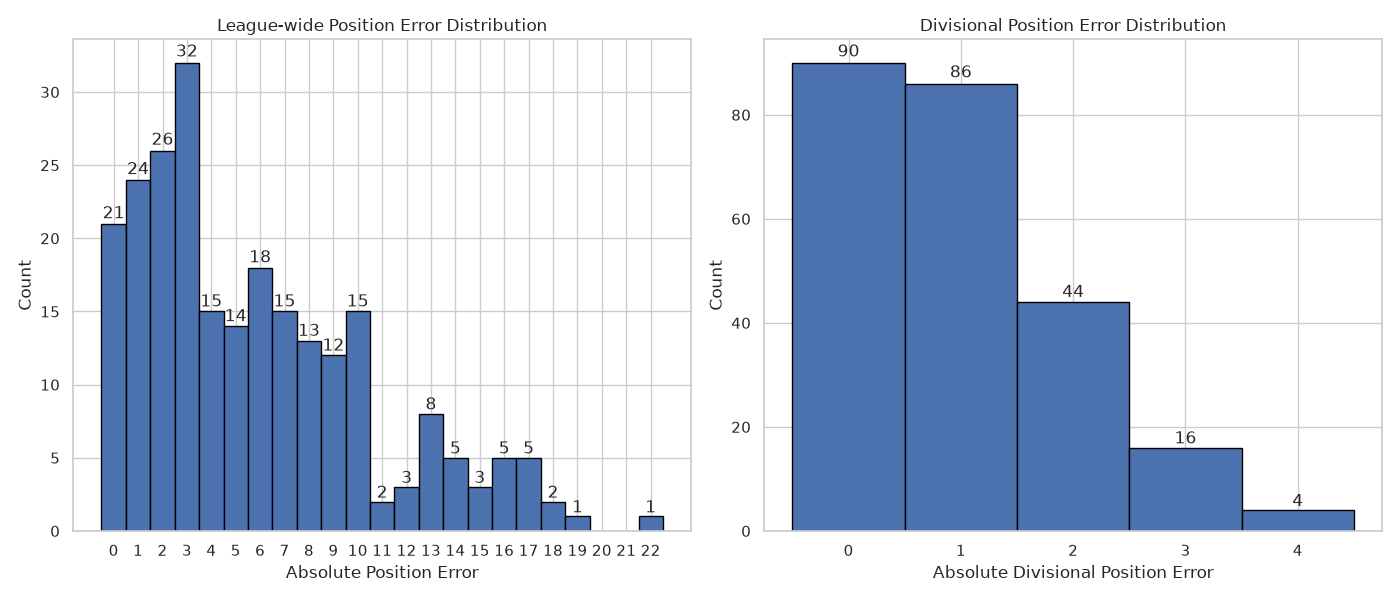
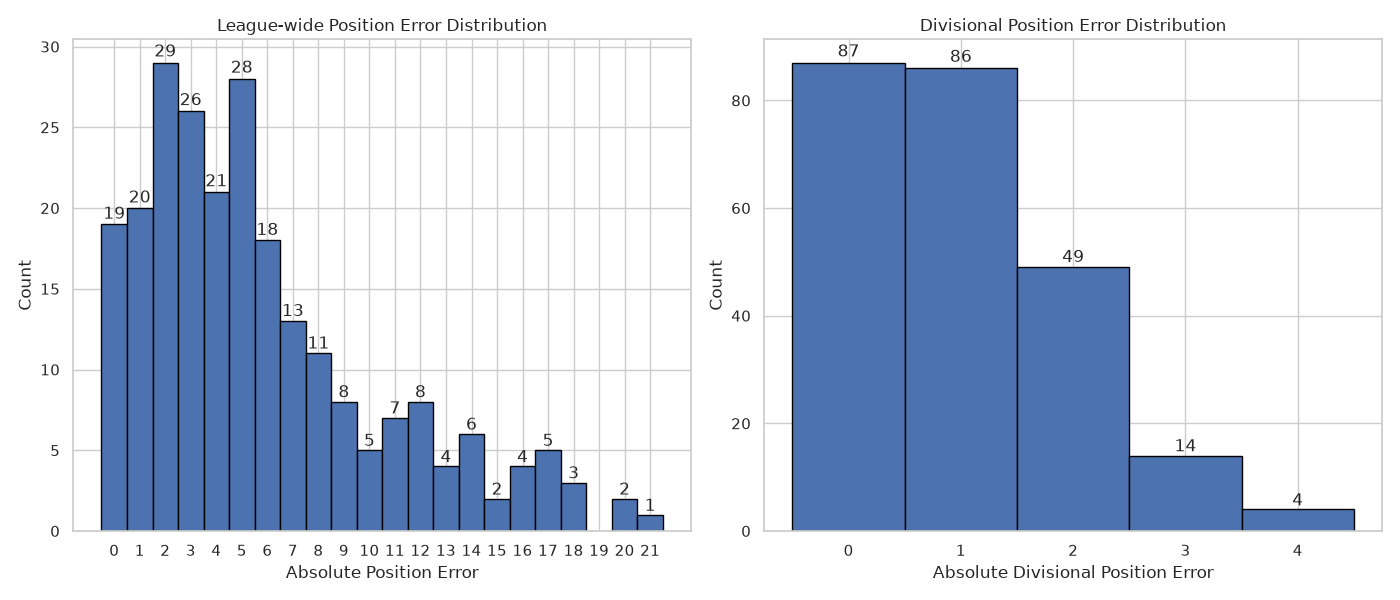
Refactor a_ranking config, logging, and multi-season features

diff --git a/tasks/a_ranking/main.py b/tasks/a_ranking/main.py
@@ -19,7 +19,11 @@ from evaluate import generate_graphs
 OUTPUT_DIR = config.LOG_DIR
 LOG_FILE = OUTPUT_DIR / "output.log"
 TEST_YEARS = config.TEST_YEARS
-TRAIN_WINDOW = config.PREVIOUS_YEARS[-1]
+
+def indent(text, spaces: int) -> str:
+    prefix = " " * spaces
+    return "\n".join(prefix + line for line in str(text).splitlines())
+
 
 def setup_logging() -> logging.Logger:
     OUTPUT_DIR.mkdir(parents=True, exist_ok=True)
@@ -44,12 +48,17 @@ def load_actual_teams(year: int) -> pd.DataFrame:
 
 def log_summary(log, header: str, graph_name: str, results: list) -> None:
     summary = pd.DataFrame(results)
-    log.info(f"\n===== Overall: {header} =====")
-    log.info(f"Mean spearman: {summary['spearman'].mean():.3f} (sd {summary['spearman'].std():.3f})")
-    log.info(f"Mean league position error: {summary['mean_pos_error'].mean():.2f} spots (sd {summary['mean_pos_error'].std():.2f})")
-    log.info(f"Mean divisional position error: {summary['div_mean_pos_error'].mean():.2f} spots (sd {summary['div_mean_pos_error'].std():.2f})")
-    log.info(f"League positions correct: {summary['league_correct'].sum()}/{summary['league_total'].sum()}")
-    log.info(f"Divisional positions correct: {summary['div_correct'].sum()}/{summary['div_total'].sum()}")
+    log.info(f"\n ===== Overall: {header} =====")
+    log.info("  Mean spearman: {:.3f} (sd {:.3f})".format(
+        summary["spearman"].mean(), summary["spearman"].std()))
+    log.info("  Mean league position error: {:.2f} spots (sd {:.2f})".format(
+        summary["mean_pos_error"].mean(), summary["mean_pos_error"].std()))
+    log.info("  Mean divisional position error: {:.2f} spots (sd {:.2f})".format(
+        summary["div_mean_pos_error"].mean(), summary["div_mean_pos_error"].std()))
+    log.info("  League positions correct: {}/{}".format(
+        summary["league_correct"].sum(), summary["league_total"].sum()))
+    log.info("  Divisional positions correct: {}/{}".format(
+        summary["div_correct"].sum(), summary["div_total"].sum()))
 
     comparison = pd.concat([r["comparison"] for r in results], ignore_index=True)
     div = pd.concat([r["div"] for r in results], ignore_index=True)
@@ -60,26 +69,28 @@ def main() -> None:
     results_by_model = {exp["name"]: [] for exp in config.EXPERIMENTS}
 
     for test_year in TEST_YEARS:
-        sampler(train_from=test_year - TRAIN_WINDOW, train_until=test_year - 1, test_year=test_year)
+        sampler(1984, train_until=test_year - 1, test_year=test_year)
         train_data = pd.read_csv(ROOT / "data" / "train" / "Teams.csv")
         test_data = pd.read_csv(ROOT / "data" / "test" / "Teams.csv")
 
         test_year = int(test_data["year"].iloc[0])
         actual_test = load_actual_teams(test_year)
+        log.info(f"\n ===== Year: {test_year} =====")
 
         for exp in config.EXPERIMENTS:
             name = exp["name"]
             train_and_predict = MODELS[exp["model"]]
+            extra = {k: v for k, v in exp.items() if k not in ("name", "model", "alphas")}
             for alpha in exp.get("alphas", [None]):
                 label = f"{name}_alpha_{alpha}" if alpha is not None else name
                 header = f"{name} (alpha={alpha})" if alpha is not None else name
-                log.info(f"\n===== Model: {header} =====")
-                kwargs = {"alpha": alpha} if alpha is not None else {}
+                log.info(f"\n  ===== Model: {header} =====")
+                kwargs = {**extra, **({"alpha": alpha} if alpha is not None else {})}
                 predictions = train_and_predict(train_data, test_data, **kwargs)
-                log.info("Predictions:")
-                log.info(predictions.to_string(index=False))
-                log.info(f"\nTest metrics ({test_year}):")
-                result = evaluate_ranking(predictions, actual_test, name, test_year)
+                log.info("   Predictions:")
+                log.info(indent(predictions.to_string(index=False), 4))
+                log.info("\n   Test metrics:")
+                result = evaluate_ranking(predictions, actual_test, name, test_year, indent="    ")
                 results_by_model[name].append({"model": label, "year": test_year, **result})
 
         print(f"\nlog written to {LOG_FILE}")

diff --git a/tasks/a_ranking/models/roster.py b/tasks/a_ranking/models/roster.py
@@ -146,10 +146,46 @@ def build_rows(teams, roster_scoring, roster_goalies, prior_scoring, prior_goali
         rows.append({"year": year, "franchID": franchID, **feats})
     return pd.DataFrame(rows)
 
+def build_features(teams, roster_scoring, roster_goalies, prior_scoring, prior_goalies_all, target_year, prior_teams, previous_years=1) -> pd.DataFrame:
+    """Build target-year features from the last N available prior seasons.
+
+    Each prior season produces one full feature table via build_rows(); the
+    tables are then averaged per franchise. With previous_years=1 this returns
+    exactly what build_rows() would have returned on its own.
+    """
+    previous_years = int(previous_years)
+    if previous_years < 1:
+        raise ValueError("previous_years must be >= 1")
+
+    seasons = sorted({int(y) for y in prior_scoring["year"] if y < target_year})[-previous_years:]
+    if not seasons:
+        raise ValueError(f"No prior seasons available before {target_year}")
+
+    frames = []
+    for season in seasons:
+        frames.append(build_rows(
+            teams, roster_scoring, roster_goalies,
+            prior_scoring[prior_scoring["year"] <= season],
+            prior_goalies_all[prior_goalies_all["year"] <= season],
+            target_year,
+            prior_teams[prior_teams["year"] <= season],
+        ))
+
+    if len(frames) == 1:
+        return frames[0]
+
+    all_features = pd.concat(frames, ignore_index=True)
+    feature_cols = [c for c in all_features.columns if c not in ("year", "franchID")]
+    averaged = all_features.groupby("franchID")[feature_cols].mean()
+    out = all_features[["year", "franchID"]].drop_duplicates().merge(
+        averaged, left_on="franchID", right_index=True, how="left")
+    out["year"] = target_year
+    return out[["year", "franchID"] + feature_cols].reset_index(drop=True)
+
 def load_players(split: str) -> dict:
     return {t: pd.read_csv(DATA_DIR / split / f"{t}.csv") for t in ("Scoring", "Goalies")}
 
-def train_and_predict(train_data, test_data, train_players=None, test_players=None, alpha=30.0, features=None) -> pd.DataFrame:
+def train_and_predict(train_data, test_data, train_players=None, test_players=None, alpha=30.0, features=None, previous_years=1) -> pd.DataFrame:
     """Trains a ridge model on prior seasons and predicts the test-year rankings."""
     cols = features_for(features) if features is not None else FEATURES
     train_players = train_players or load_players("train")
@@ -160,10 +196,11 @@ def train_and_predict(train_data, test_data, train_players=None, test_players=No
         earlier = train_data[train_data["year"] < year]
         if earlier.empty:
             continue
-        feats = build_rows(
+        feats = build_features(
             train_data, train_players["Scoring"], train_players["Goalies"],
             train_players["Scoring"][train_players["Scoring"]["year"] < year],
-            train_players["Goalies"][train_players["Goalies"]["year"] < year], year, earlier,
+            train_players["Goalies"][train_players["Goalies"]["year"] < year],
+            year, earlier, previous_years,
         )
         target = train_data.loc[train_data["year"] == year, ["franchID", "Pts"]]
         frames.append(feats.merge(target, on="franchID"))
@@ -173,9 +210,9 @@ def train_and_predict(train_data, test_data, train_players=None, test_players=No
     model.fit(train_rows[cols], train_rows["Pts"].astype(float))
 
     test_year = int(test_data["year"].iloc[0])
-    test_feats = build_rows(
+    test_feats = build_features(
         test_data, test_players["Scoring"], test_players["Goalies"],
-        train_players["Scoring"], train_players["Goalies"], test_year, train_data,
+        train_players["Scoring"], train_players["Goalies"], test_year, train_data, previous_years,
     ).dropna(subset=cols)
     return pd.DataFrame({
         "year": test_feats["year"].values,

diff --git a/tasks/a_ranking/evaluate.py b/tasks/a_ranking/evaluate.py
@@ -7,7 +7,7 @@ log = logging.getLogger("a_ranking")
 
 OUTPUT_DIR = Path(__file__).resolve().parents[0] / "plots"
 
-def evaluate_ranking(predictions: pd.DataFrame, actual: pd.DataFrame, name: str, year: int) -> dict:
+def evaluate_ranking(predictions: pd.DataFrame, actual: pd.DataFrame, name: str, year: int, indent: str = "") -> dict:
     prediction_columns = {"year", "franchID", "predicted_pts"}
     actual_columns = {"year", "franchID", "Pts", "divID", "rank"}
 
@@ -48,14 +48,14 @@ def evaluate_ranking(predictions: pd.DataFrame, actual: pd.DataFrame, name: str,
         .astype(int)
     )
     league_correct = int((comparison["predicted_pos"] == comparison["actual_pos"]).sum())
-    log.info(f"League positions: {league_correct}/{len(comparison)} correct")
+    log.info(f"{indent}League positions: {league_correct}/{len(comparison)} correct")
 
     spearman = comparison.groupby("year").apply(lambda s: spearmanr(s["predicted_pos"], s["actual_pos"]).statistic).mean()
     comparison["pos_error"] = (comparison["predicted_pos"] - comparison["actual_pos"]).abs()
     mean_pos_error = comparison["pos_error"].mean()
 
-    log.info(f"League spearman correlation: {spearman:.3f}")
-    log.info(f"League mean absolute position error: {mean_pos_error:.2f} spots")
+    log.info(f"{indent}League spearman correlation: {spearman:.3f}")
+    log.info(f"{indent}League mean absolute position error: {mean_pos_error:.2f} spots")
 
     # Divisional positions
     div = comparison[comparison["divID"].notna()].copy()
@@ -65,12 +65,12 @@ def evaluate_ranking(predictions: pd.DataFrame, actual: pd.DataFrame, name: str,
         .astype(int)
     )
     div_correct = int((div["predicted_div_pos"] == div["rank"].astype(int)).sum())
-    log.info(f"Divisional positions: {div_correct}/{len(div)} correct")
+    log.info(f"{indent}Divisional positions: {div_correct}/{len(div)} correct")
 
     div["div_pos_error"] = (div["predicted_div_pos"] - div["rank"]).abs()
     div_mean_pos_error = div["div_pos_error"].mean()
 
-    log.info(f"Mean absolute divisional position error: {div_mean_pos_error:.2f} spots")
+    log.info(f"{indent}Mean absolute divisional position error: {div_mean_pos_error:.2f} spots")
 
     generate_graphs(comparison, div, name, year)
 

diff --git a/tasks/a_ranking/config.py b/tasks/a_ranking/config.py
@@ -6,12 +6,16 @@ DATABASE = ROOT / "database" / "hockey.db"
 RESULTS_DIR = ROOT / "tasks" / "a_ranking" / "results"
 LOG_DIR = ROOT / "tasks" / "a_ranking" / "logs"
 
-TEST_YEARS = [2000, 2001, 2002, 2003, 2006, 2007, 2008, 2009]
-PREVIOUS_YEARS = [1, 2, 3, 4, 5]
+TEST_YEARS = [2000, 2001, 2002, 2003, 2005, 2006, 2007, 2008, 2009]
 ALPHAS = [1.0, 3.0, 10.0, 30.0, 100.0]
+PREVIOUS_YEARS = [3, 2, 1]
 
 EXPERIMENTS = [
     {"name": "baseline", "model": "baseline"},
-    {"name": "roster1",  "model": "roster1", "alphas": ALPHAS},
-    {"name": "roster2",  "model": "roster2", "alphas": ALPHAS},
+    {"name": "roster1",  "model": "roster1", "alphas": ALPHAS, "previous_years": PREVIOUS_YEARS[-1]},
+    {"name": "roster2",  "model": "roster2", "alphas": ALPHAS, "previous_years": PREVIOUS_YEARS[-1]},
+    {"name": "roster3",  "model": "roster1", "alphas": ALPHAS, "previous_years": PREVIOUS_YEARS[-2]},
+    {"name": "roster4",  "model": "roster2", "alphas": ALPHAS, "previous_years": PREVIOUS_YEARS[-2]},
+    {"name": "roster5",  "model": "roster1", "alphas": ALPHAS, "previous_years": PREVIOUS_YEARS[-3]},
+    {"name": "roster6",  "model": "roster2", "alphas": ALPHAS, "previous_years": PREVIOUS_YEARS[-3]}
 ]
